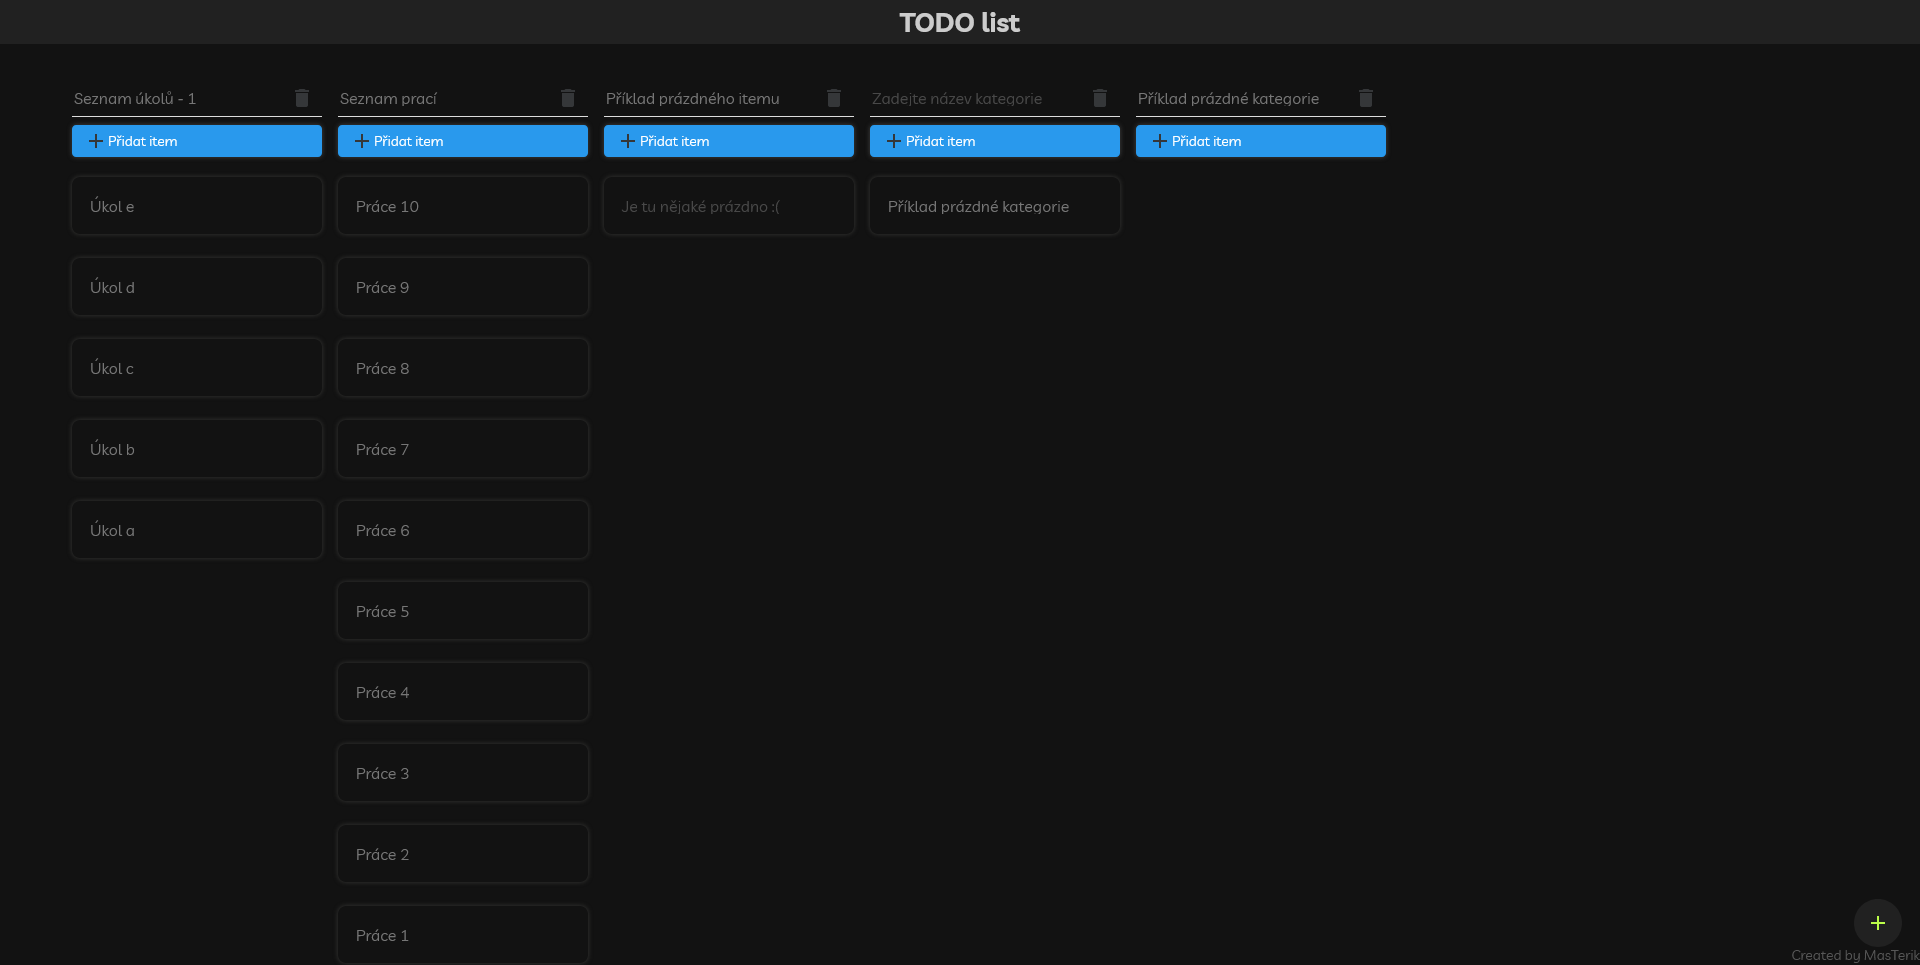
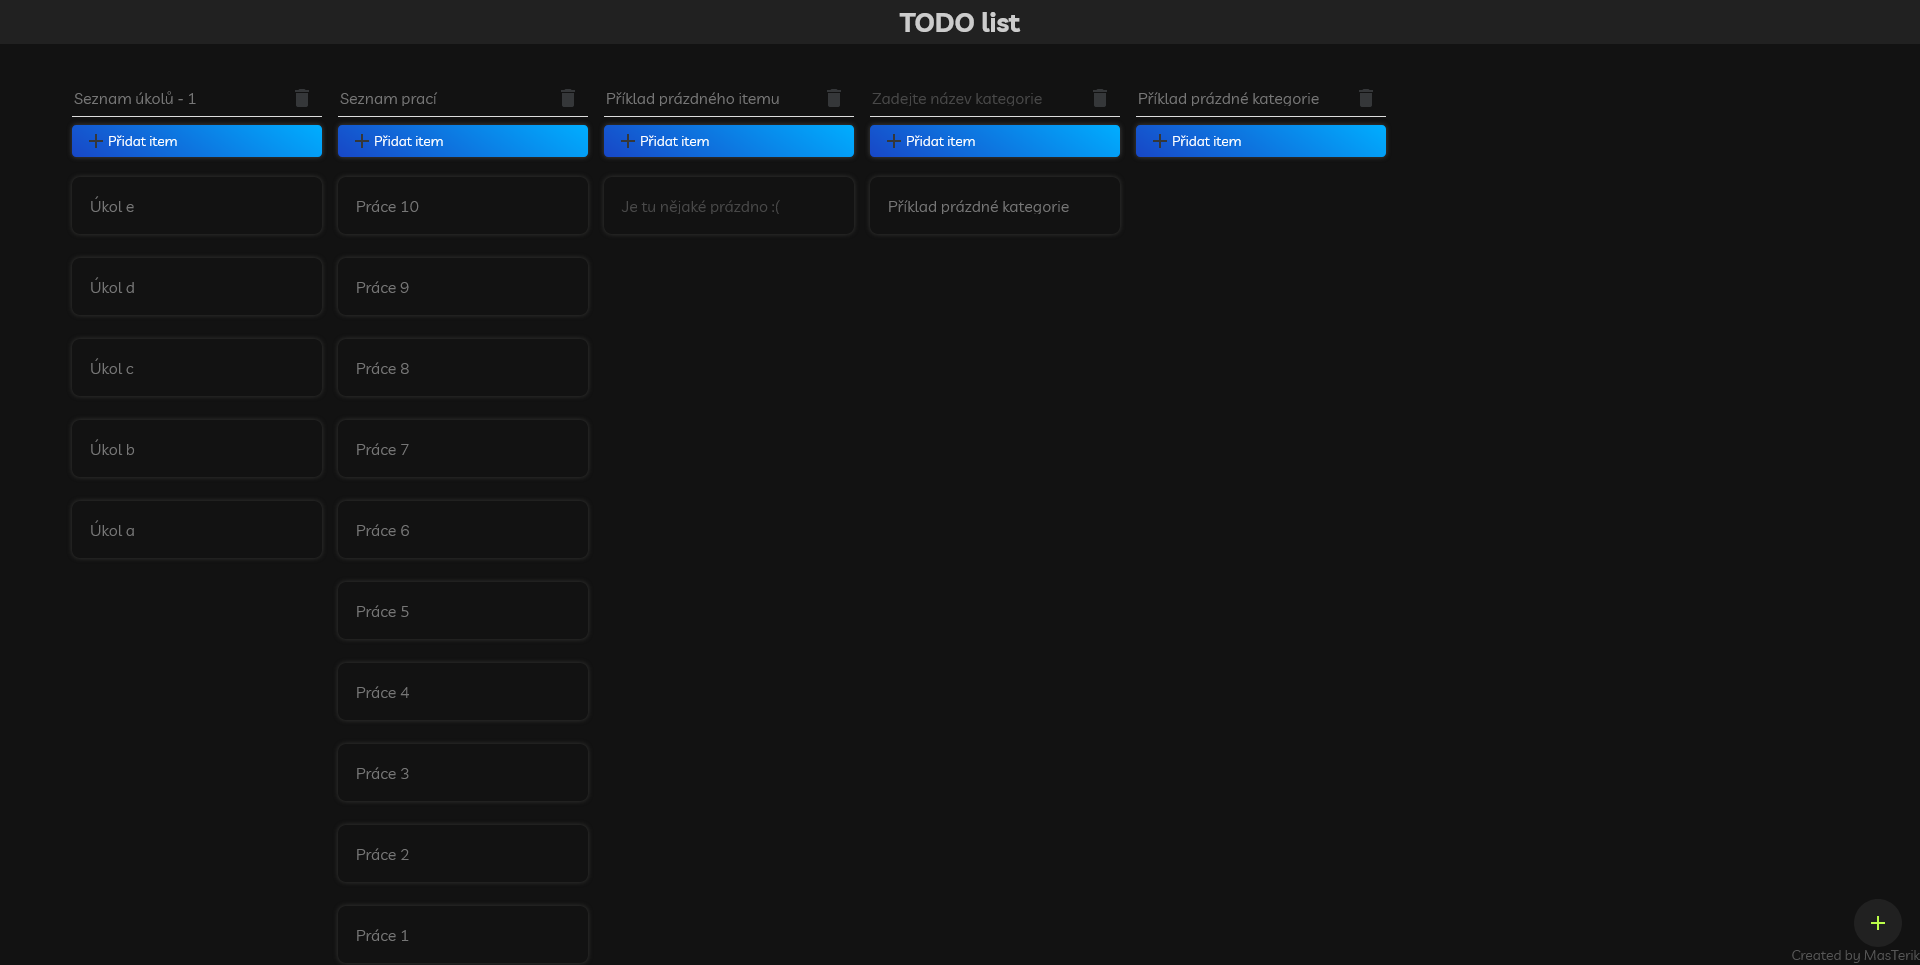
Vylepšené zobrazení pro menší obrazovky, upravený pozadí tlačítka pro přidání itemu do kategorie, upraveno css pro textarea

Changed region(s): [[0.0312, 0.1244, 0.7188, 0.1865]]

diff --git a/src/app/app.component.css b/src/app/app.component.css
@@ -31,8 +31,8 @@
 
 .board /* main board content */
 {
-    width: 100%;
-    height: 100%;
+    width: calc(100% - 4rem);
+    height: calc(100vh - 2 * 2rem - 36px);
     max-width: 100vw;
     max-height: calc(100vh - 2 * 2rem - 36px);
     z-index: 100;
@@ -63,7 +63,6 @@
 
 .add-item
 {
-    background-color: #2999ed;
     border-radius: 4px;
     margin: 8px 0;
     padding: 4px 12px;
@@ -164,16 +163,11 @@ textarea
 {
     width: 100%;
     border: 0;
-    display: flex;
-    flex-direction: row;
-    align-items: center;
     white-space: normal;
     word-wrap: break-word;
     resize: none;
     overflow: hidden;
     overflow-wrap: break-word;
-    box-sizing: border-box;
-    user-select: none;
     background-color: transparent;
     color: rgb(118, 118, 118);
 }

diff --git a/src/styles.css b/src/styles.css
@@ -47,11 +47,7 @@ body
 }
 
 .gradient {
-    background: rgb(24,71,198);
-    background: -moz-linear-gradient(29deg, rgba(24,71,198,1) 0%, rgba(9,9,121,1) 35%, rgba(0,212,255,1) 100%);
-    background: -webkit-linear-gradient(29deg, rgba(24,71,198,1) 0%, rgba(9,9,121,1) 35%, rgba(0,212,255,1) 100%);
-    background: linear-gradient(29deg, rgba(24,71,198,1) 0%, rgba(9,9,121,1) 35%, rgba(0,212,255,1) 100%);
-    filter: progid:DXImageTransform.Microsoft.gradient(startColorstr="#1847c6",endColorstr="#00d4ff",GradientType=1);
+    background: linear-gradient(35deg, rgba(24,71,198,1) 0%, rgb(0, 174, 255) 100%);
 }
 
 /* Custom styles for Angular Materials */

diff --git a/src/app/app.component.html b/src/app/app.component.html
@@ -25,7 +25,7 @@
           <mat-icon>{{ category.titleFocused ? "edit" : "delete"}}</mat-icon>
         </button>
       </div>
-      <div class="add-item" (click)="add(i, '')">
+      <div class="add-item gradient" (click)="add(i, '')">
         <mat-icon>add</mat-icon> Přidat item
       </div>
       <div class="items">
